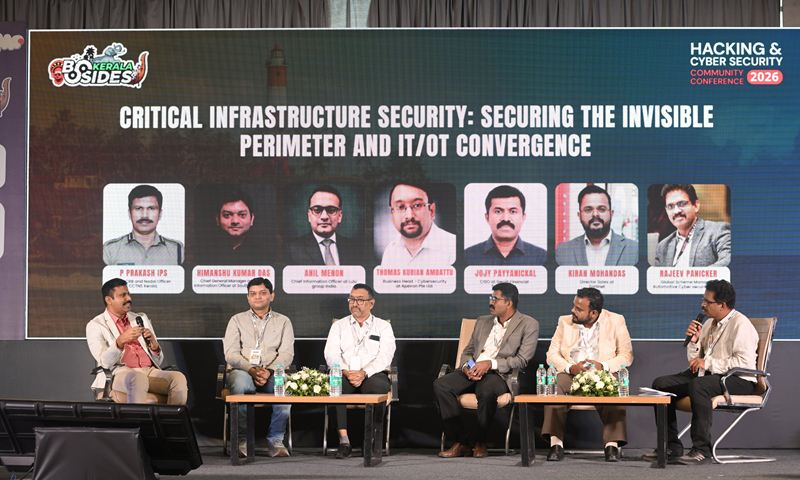
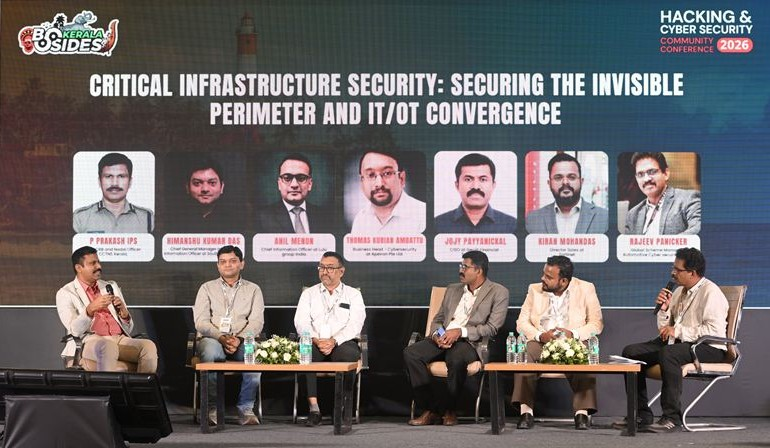
cards

diff --git a/index.html b/index.html
@@ -107,37 +107,52 @@
 <section class="sect on-ink">
   <div class="wrap">
     <h2>Tracks and events</h2>
-    <p class="sect-text">Six spaces to move between across the conference, whatever your level of experience.</p>
+    <p class="sect-text">Nine spaces to move between across the conference, whatever your level of experience.</p>
     <ul class="tracks">
       <li>
-        <img src="img/gallery/thumbs/2026/15.jpg" alt="Panel discussion on critical infrastructure security at BSides Kerala 2026" loading="lazy">
+        <img src="img/gallery/thumbs/cards/cxo-track.jpg" alt="Panel discussion on critical infrastructure security at BSides Kerala 2026" loading="lazy">
         <h3>CXO Track</h3>
         <p>Security strategy, AI, critical infrastructure and supply chain risk for the people who set direction.</p>
       </li>
       <li>
-        <img src="img/gallery/thumbs/2026/13.jpg" alt="Speaker presenting attack patterns at BSides Kerala 2026" loading="lazy">
+        <img src="img/gallery/thumbs/cards/hacker-ground.jpg" alt="Speaker presenting attack patterns at BSides Kerala 2026" loading="lazy">
         <h3>Hacker Ground</h3>
         <p>Deep technical talks and live demos from practitioners, covering offensive research, tooling and incident response.</p>
       </li>
       <li>
-        <img src="img/gallery/thumbs/2025/3.jpg" alt="Speaker walking the audience through a slide at BSides Kerala 2025" loading="lazy">
+        <img src="img/gallery/thumbs/cards/rookie.jpg" alt="Speaker walking the audience through a slide at BSides Kerala 2025" loading="lazy">
         <h3>Rookie Track</h3>
         <p>A friendly room for first-time speakers and people new to the field, with mentoring along the way.</p>
       </li>
       <li>
-        <img src="img/gallery/thumbs/2025/14.jpg" alt="Presenter at a laptop during a session at BSides Kerala 2025" loading="lazy">
+        <img src="img/gallery/thumbs/cards/training.jpg" alt="Participants in a hands-on security training session at BSides Kerala" loading="lazy">
+        <h3>Trainings</h3>
+        <p>Two full days of instructor-led courses ahead of the conference, diving deep into offensive and defensive skills.</p>
+      </li>
+      <li>
+        <img src="img/gallery/thumbs/cards/workshop.jpg" alt="Attendees working through a guided technical workshop at BSides Kerala" loading="lazy">
+        <h3>Workshop</h3>
+        <p>Focused, interactive sessions where you build, break and test tools alongside practitioners.</p>
+      </li>
+      <li>
+        <img src="img/gallery/thumbs/cards/hands-on-activity.jpg" alt="Presenter at a laptop during a session at BSides Kerala 2025" loading="lazy">
         <h3>Hands-on Activity</h3>
         <p>Hardware, IoT and wireless labs, lockpicking and live hacking demos you take part in yourself.</p>
       </li>
       <li>
-        <img src="img/gallery/thumbs/2026/1.jpg" alt="Group photo on stage at BSides Kerala 2026" loading="lazy">
+        <img src="img/gallery/thumbs/cards/ctf.jpg" alt="Group photo on stage at BSides Kerala 2026" loading="lazy">
         <h3>CTF</h3>
         <p>The on-site capture-the-flag, with challenges modelled on real-world scenarios.</p>
       </li>
       <li>
-        <img src="img/gallery/thumbs/2025/13.jpg" alt="Attendees talking between sessions at BSides Kerala 2025" loading="lazy">
+        <img src="img/gallery/thumbs/cards/career-space.jpg" alt="Attendees talking between sessions at BSides Kerala 2025" loading="lazy">
         <h3>Career Space</h3>
         <p>Get your CV looked over and talk to people doing the job you want next.</p>
+      </li>
+      <li>
+        <img src="img/gallery/thumbs/cards/expo.jpg" alt="Security vendors and community booths at the BSides Kerala Expo" loading="lazy">
+        <h3>Expo</h3>
+        <p>Explore sponsor booths, community villages and product demos across the conference floor.</p>
       </li>
     </ul>
   </div>

diff --git a/call-for-papers/cfp-bsides-kerala-2027/index.html b/call-for-papers/cfp-bsides-kerala-2027/index.html
@@ -43,7 +43,7 @@
 </section>
 <section class="sect plain">
   <div class="wrap">
-    <iframe loading="lazy" src="https://docs.google.com/forms/d/e/1FAIpQLSeWFWZi48aLpjgzpYVI-bXSo-ZpheT60dF5uP7a0Ytc1HGKFw/viewform?embedded=true" height="0" title="Proposal form for BSides Kerala 2027">Loading the form</iframe>
+    <iframe loading="lazy" src="https://docs.google.com/forms/d/e/1FAIpQLSeWFWZi48aLpjgzpYVI-bXSo-ZpheT60dF5uP7a0Ytc1HGKFw/viewform?embedded=true" height="2800" scrolling="no" title="Proposal form for BSides Kerala 2027">Loading the form</iframe>
   </div>
 </section>
 </main>

diff --git a/call-for-volunteers/index.html b/call-for-volunteers/index.html
@@ -43,7 +43,7 @@
 </section>
 <section class="sect plain">
   <div class="wrap">
-    <iframe loading="lazy" src="https://docs.google.com/forms/d/e/1FAIpQLScfeUldU7eFOSYIe1z97ozn3gFvt3LTZB-oVYJgv3JnpS9fuQ/viewform?embedded=true" height="0" title="Volunteer form">Loading the form</iframe>
+    <iframe loading="lazy" src="https://docs.google.com/forms/d/e/1FAIpQLScfeUldU7eFOSYIe1z97ozn3gFvt3LTZB-oVYJgv3JnpS9fuQ/viewform?embedded=true" height="2200" scrolling="no" title="Volunteer form">Loading the form</iframe>
   </div>
 </section>
 </main>
